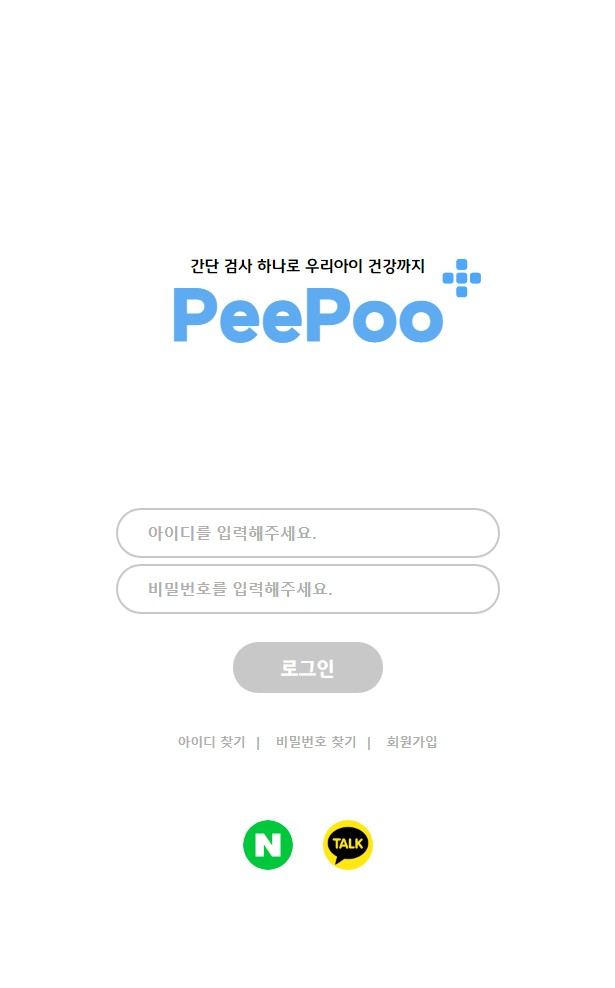
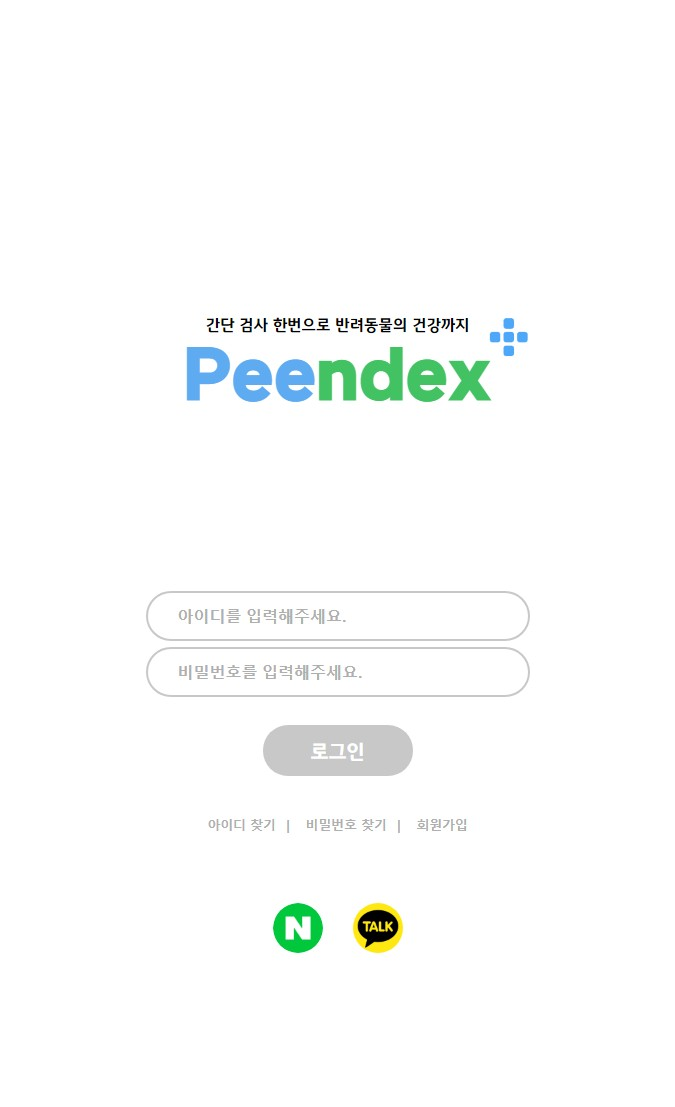
124123

diff --git a/Peendex/styles/login.css b/Peendex/styles/login.css
@@ -1,0 +1,138 @@
+@font-face {
+  font-family: 'MICEGothic Bold';
+  src: url('https://cdn.jsdelivr.net/gh/projectnoonnu/noonfonts_2206-01@1.0/MICEGothic Bold.woff2') format('woff2');
+  font-weight: 700;
+  font-style: normal;
+}
+@font-face {
+  font-family: 'GangwonEduPowerExtraBoldA';
+  src: url('https://cdn.jsdelivr.net/gh/projectnoonnu/noonfonts_2201-2@1.0/GangwonEduPowerExtraBoldA.woff') format('woff');
+  font-weight: normal;
+  font-style: normal;
+}
+:root {
+  --main-login-color-bg: rgb(200, 200, 200);
+  --main-login-color-text: rgb(175, 175, 175);
+}
+.login-container {
+  display: flex;
+  justify-content: center;
+  align-items: center;
+  flex-direction: column;
+  width: 100%;
+  height: 100vh;
+  background-color: #fff;
+}
+.login-title-container {
+  display: flex;
+  justify-content: center;
+  align-items: center;
+  flex-direction: column;
+  height: 35%;
+}
+.login-title-sub-text {
+  font-family: 'MICEGothic Bold';
+  font-size: 1em;
+  display: flex;
+  align-items: center;
+}
+.login-title-main {
+  font-family: 'GangwonEduPowerExtraBoldA';
+  color: var(--main-color-blue);
+  font-size: 4.5em;
+  /* font-weight: bold; */
+  line-height: 1em;
+  z-index: 2;
+  position: relative;
+  padding-top: 20px;
+}
+.ndex {
+  color: #42c262;
+}
+.login-logo {
+  position: absolute;
+  right: -40px;
+  top: -20px;
+}
+.login-area {
+  display: flex;
+  flex-direction: column;
+  align-items: center;
+  width: 100%;
+}
+.login-input-container {
+  display: flex;
+  flex-direction: column;
+  align-items: center;
+  gap: 15px;
+}
+#login-id, #login-password, #login-submit {
+  padding: 13px 30px;
+  padding-top: 15px;
+  border-radius: 25px;
+  transition: all 0.25s;
+}
+#login-id, #login-password {
+  font-size: 1em;
+  width: 380px;
+  color: var(--main-login-color-text);
+  border: none;
+  outline: 2px solid var(--main-login-color-bg);
+  font-weight: bold;
+}
+#login-id::placeholder, #login-password::placeholder {
+  color: var(--main-login-color-text);
+}
+#login-id:focus, #login-password:focus,
+#login-id:hover, #login-password:hover {
+  color: var(--main-login-color-text);
+  outline: 2px solid rgb(156, 156, 156);
+}
+#login-submit {
+  font-family: 'MICEGothic Bold';
+  cursor: pointer;
+  width: 150px;
+  font-size: 1.25em;
+  color: #fff;
+  background-color: var(--main-login-color-bg);
+  margin: 15px 0;
+  border: none;
+}
+#login-submit:hover {
+  background-color: var(--main-color-blue);
+}
+#login-submit:active {
+  transform: scale(95%);
+}
+.login-help div {
+  display: inline;
+}
+.login-help a {
+  margin: 20px 0;
+  color: var(--main-login-color-text);
+  display: inline-block;
+  font-weight: bold;
+  font-size: 0.8em;
+}
+.login-help div:not(:last-child)::after {
+  content: '|';
+  color: var(--main-login-color-text);
+  margin: 0 10px;
+}
+.login-with {
+  display: flex;
+  margin-top: 50px;
+  gap: 30px;
+}
+.login-with img {
+  /* outline: 1px solid var(--main-login-color-bg); */
+  border-radius: 100%;
+  width: 50px;
+  transition: all 0.25s;
+}
+.login-with img:hover {
+  transform: scale(110%);
+}
+.login-with img:active {
+  transform: scale(100%);
+}

diff --git a/Peendex/index.html b/Peendex/index.html
@@ -1,0 +1,86 @@
+<!DOCTYPE html>
+<html lang="en">
+<head>
+  <meta charset="UTF-8">
+  <meta http-equiv="X-UA-Compatible" content="IE=edge">
+  <meta name="viewport" content="width=device-width, initial-scale=1.0">
+  <title>로그인화면</title>
+    <!-- jQuery CDN 3.6.0 -->
+    <script src="https://code.jquery.com/jquery-3.6.0.min.js"></script>
+  <link rel="stylesheet" href="./styles/loading.css">
+  <link rel="stylesheet" href="./styles/login.css">
+  <link rel="stylesheet" href="./styles/darkmode.css">
+</head>
+<body>
+
+  <div class="loading-container">
+
+    <div class="loading">
+      <div class="loading-main">
+        <div class="loading-title-sub">
+          <div class="loading-title-sub-text">집에서 하는 건강검진</div>
+          <img class="loading-logo" src="./images/mainlogo-alt.png">
+        </div>
+        <div class="loading-title-main">핀<span class="ndex-l">덱스</span></div>
+      </div>
+    </div>
+
+    <div class="loading-footer">
+      <div>Pet Lab</div>
+    </div>
+
+  </div>
+
+
+<div class="login-container">
+
+  <div class="login-title-container">
+    <div class="login-title-sub">
+      <div class="login-title-sub-text">간단 검사 한번으로 반려동물의 건강까지</div>
+    </div>
+    <div class="login-title-main">
+      Pee<span class="ndex">ndex</span> 
+        <img class="login-logo" src="./images/loginlogo-alt.png">
+    </div>
+  </div>
+  <div class="login-area">
+    <div class="login-input-container">
+      <input type="text" name="" id="login-id" placeholder="아이디를 입력해주세요.">
+      <input type="password" name="" id="login-password" placeholder="비밀번호를 입력해주세요.">
+      <button id="login-submit">로그인</button>
+    </div>
+    <div class="login-help">
+      <div><a href="#">아이디 찾기</a></div>
+      <div><a href="#">비밀번호 찾기</a></div>
+      <div><a href="#">회원가입</a></div>
+    </div>
+    <div class="login-with">
+      <div class="login-with-naver">
+        <img src="./images/login-naver.png" alt="">
+      </div>
+      <div class="login-with-kakaotalk">
+        <img src="./images/login-kakaotalk.png" alt="">
+      </div>
+    </div>
+  </div>
+
+</div>
+
+
+
+
+
+
+
+
+
+
+
+
+
+
+
+
+</body>
+<script src="./scripts/loading.js"></script>
+</html>

diff --git a/Peendex/styles/loading.css b/Peendex/styles/loading.css
@@ -1,0 +1,84 @@
+@font-face {
+  font-family: 'CookieRunOTF-Black';
+  src: url('https://cdn.jsdelivr.net/gh/projectnoonnu/noonfonts_twelve@1.0/CookieRunOTF-Black00.woff') format('woff');
+  font-weight: normal;
+  font-style: normal;
+}
+@font-face {
+  font-family: 'GilbeotRainbow';
+  src: url('https://cdn.jsdelivr.net/gh/projectnoonnu/noonfonts_2112@1.0/GilbeotRainbow.woff') format('woff');
+  font-weight: normal;
+  font-style: normal;
+}
+@font-face {
+  font-family: 'SF_HambakSnow';
+  src: url('https://cdn.jsdelivr.net/gh/projectnoonnu/noonfonts_2106@1.1/SF_HambakSnow.woff') format('woff');
+  font-weight: normal;
+  font-style: normal;
+}
+* {
+  box-sizing: border-box;
+}
+:root {
+  --main-color-blue: #5fabf1;
+  --main-color-white: #ebebeb;
+}
+body {
+  margin: 0;
+  display: none;
+  background-color: var(--main-color-blue);
+}
+.loading-container {
+  user-select: none;
+  position: absolute;
+  width: 100%;
+  height: 100vh;
+  color: #ebebeb;
+  /* background-color: #181818; */
+  background-color: var(--main-color-blue);
+  z-index: 100;
+}
+.loading {
+  display: flex;
+  justify-content: center;
+  align-items: center;
+  flex-direction: column;
+  height: 90%;
+}
+.loading-main {
+  text-align: center;
+}
+.loading-title-sub {
+  font-family: 'GilbeotRainbow';
+  font-size: 1.5em;
+  display: flex;
+  align-items: center;
+}
+.loading-title-main {
+  font-family: 'CookieRunOTF-Black';
+  font-size: 4em;
+  /* font-weight: bold; */
+  line-height: 0.5em;
+  z-index: 2;
+}
+
+.loading-title-sub-text{
+  margin-left: 1em;
+  z-index: 2;
+}
+.loading-logo {
+  z-index: -1;
+  display: inline-block;
+  animation: rolling 3s linear infinite;
+}
+@keyframes rolling {
+  100% {
+    transform: rotate(360deg);
+  } 
+}
+.loading-footer {
+  font-family: 'SF_HambakSnow';
+  text-align: center;
+  font-size: 1.2em;
+  opacity: 0.75;
+}

diff --git a/Peendex/styles/darkmode.css b/Peendex/styles/darkmode.css
@@ -1,0 +1,43 @@
+@media (prefers-color-scheme: dark) {
+  body,
+  .loading-container, .login-container,
+  #login-id, #login-password {
+    background-color: var(--main-color-black-darkmode);
+    color: var(--main-color-white-darkmode);
+  }
+  .ndex-l {
+    color: #42c262;
+  }
+  .loading-title-main {
+    color: #5fabf1;
+  }
+  #login-id, #login-password ,#login-submit {
+    background-color: #181818;
+    outline: 2px solid rgb(156, 156, 156);
+    color: rgb(156, 156, 156);
+  }
+  #login-id:hover, #login-password:hover {
+    outline: 2px solid var(--main-color-white-darkmode);
+    color: var(--main-color-white-darkmode);
+  }
+  #login-id:focus, #login-password:focus {
+    outline: 2px solid var(--main-color-white-darkmode);
+  }
+  #login-submit:hover {
+    outline: 2px solid var(--main-color-white-darkmode);
+    background-color: var(--main-color-blue-darkmode);
+    color: var(--main-color-white-darkmode);
+  }
+}
+
+:root {
+  --main-color-black-darkmode: #181818;
+  --main-color-blue-darkmode: #0058aa;
+  --main-color-green-darkmode: #086d32;
+  --main-color-white-darkmode: #ebebeb;
+}
+/*
+var(--main-color-black--darkmode);
+var(--main-color-blue-darkmode);
+var(--main-color-white-darkmode);
+*/

diff --git a/index.html b/index.html
@@ -147,7 +147,7 @@
     <section id="web-portfolio">
       <div class="inner">
         <div class="heading">
-          <b>클론 코딩을 통한 UX/UI 체험</b>
+          <b>웹사이트 퍼블리싱</b>
           <h1>Website Publishing</h1>
           <div class="text-area">
             <div class="inner-text">
@@ -188,10 +188,10 @@
                 <img src="./images/web-portfolio-03.jpg">
               </div>
               <span class="portfolio-title">
-                삐뽀(PeePoo) 웹 앱 로그인 페이지
+                핀덱스(Peendex) 웹 앱 로그인 페이지
                 <div class="demos">
                   <a class="btn-view view-mobile" href="./htmls/web-portfolio-03-mobile.html" data-featherlight="iframe">Mobile</a>
-                  <a class="btn-view view-demo" href="./Peepoo/index.html" data-featherlight="iframe">Demo</a>
+                  <a class="btn-view view-demo" href="./Peendex/index.html" data-featherlight="iframe">Demo</a>
                 </div>
               </span>
             </div>

diff --git a/Peendex/scripts/loading.js b/Peendex/scripts/loading.js
@@ -1,0 +1,12 @@
+let loading_elem = document.querySelector('.loading-container');
+$('body').fadeIn(300);
+console.log("안녕");
+document.addEventListener('DOMContentLoaded', function() {
+  console.log("로딩 다된거같으니 지운다?");
+  setInterval(() => {
+    $('.loading-container').fadeOut(500);
+    setTimeout(() => {
+      loading_elem.remove();
+    }, 500);
+  }, 1000);
+})

diff --git a/Peendex/README.md b/Peendex/README.md
@@ -1,0 +1,2 @@
+# Figma_Project_Clone
+모바일 로그인화면 클론 프로젝트
